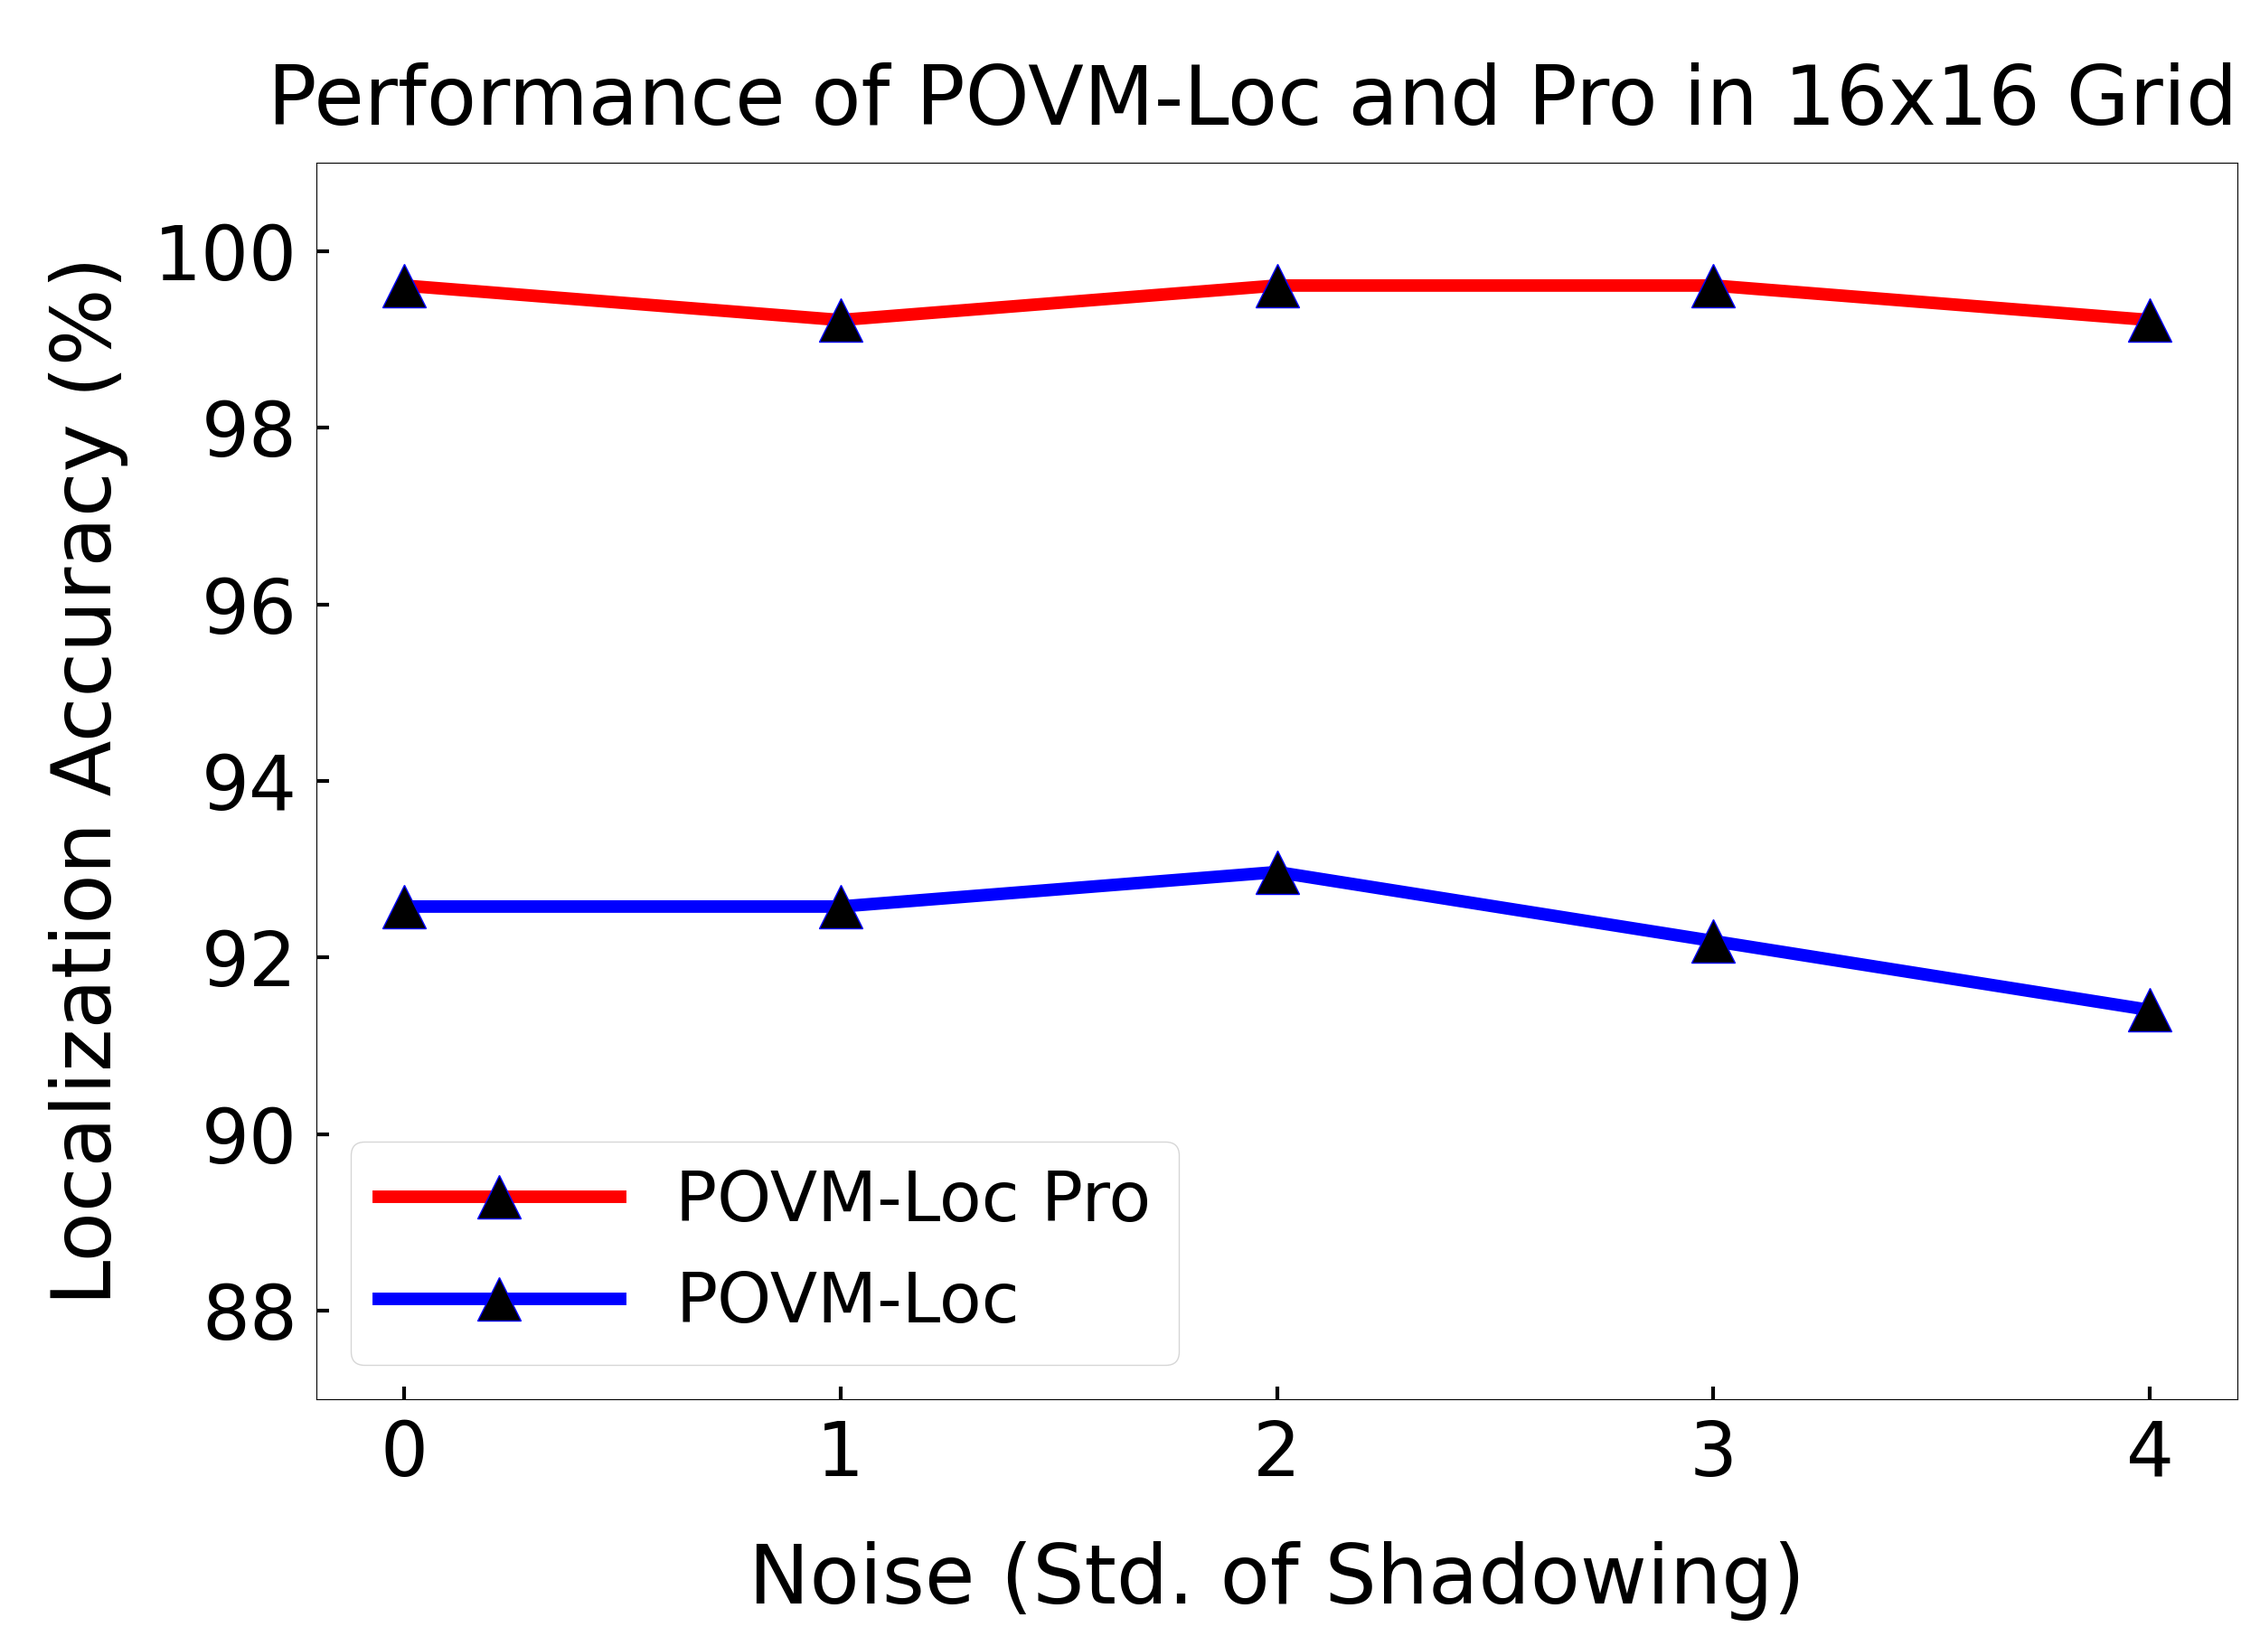
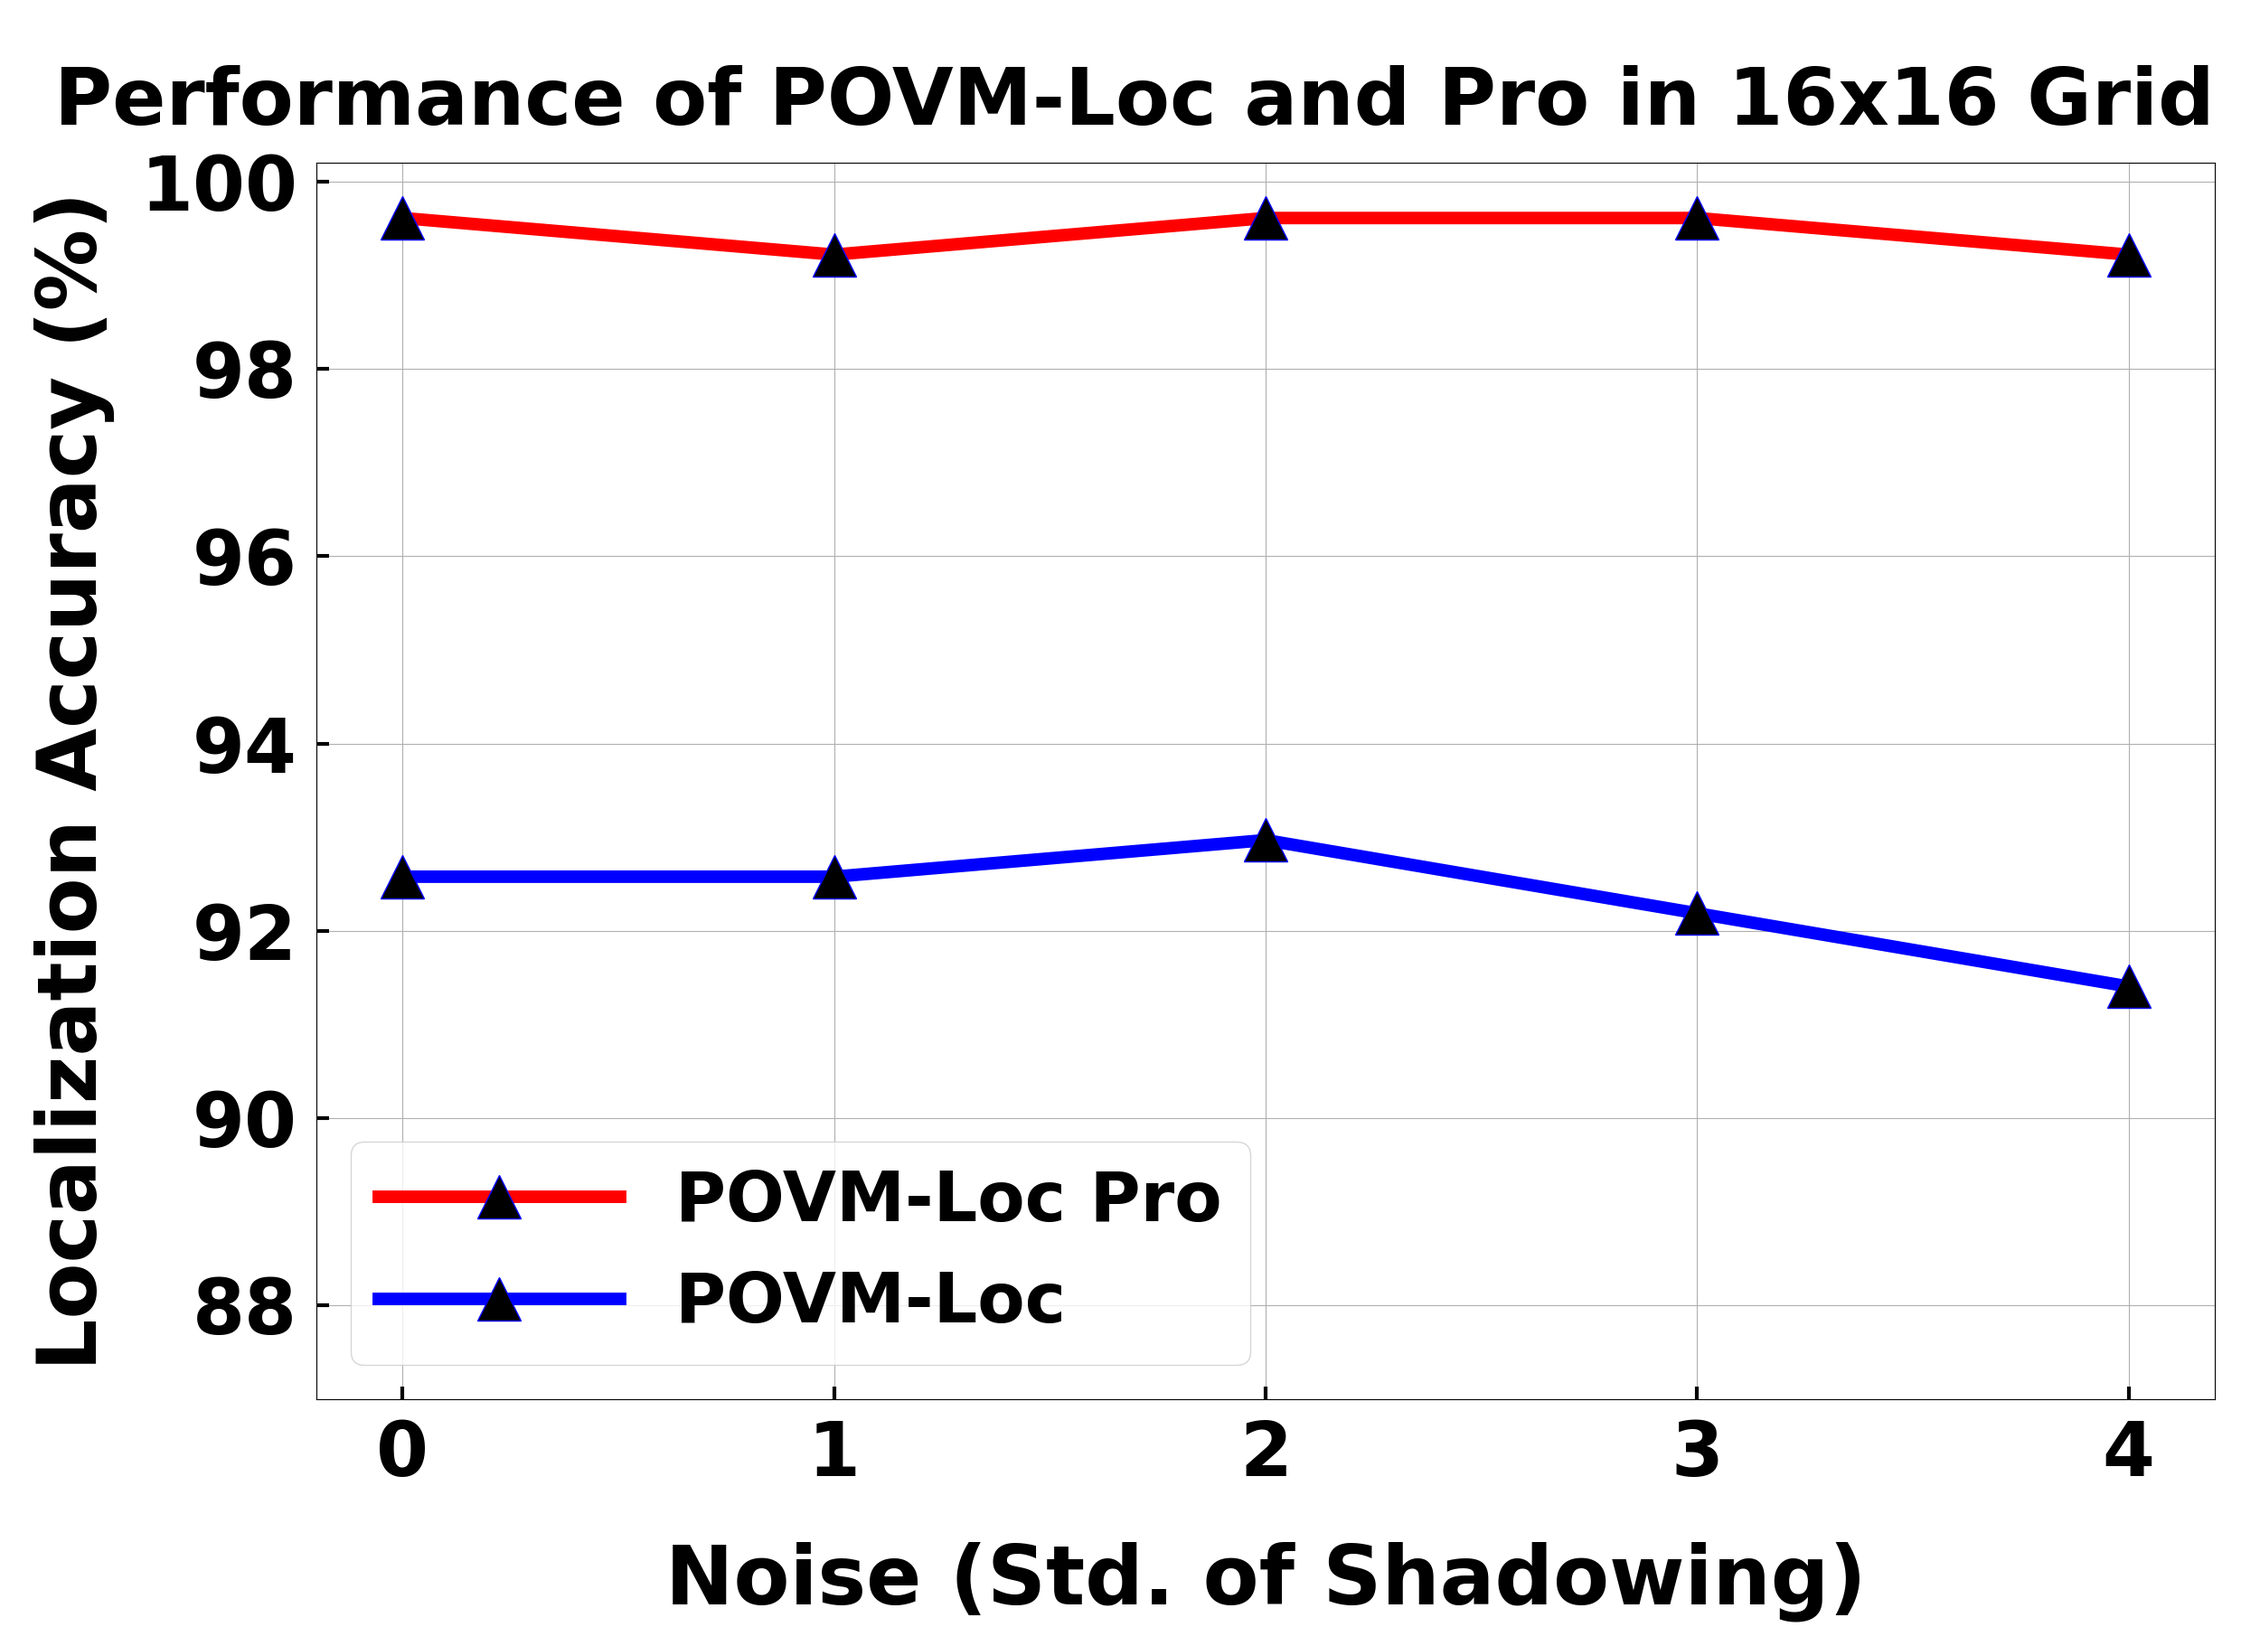
update plots

diff --git a/plot.py b/plot.py
@@ -1,4 +1,5 @@
 from collections import defaultdict
+from distutils.log import error
 import numpy as np
 import seaborn as sns
 import matplotlib.pyplot as plt
@@ -11,6 +12,8 @@ class Plot:
     plt.rcParams['font.size'] = 65
     plt.rcParams['lines.linewidth'] = 10
     plt.rcParams['lines.markersize'] = 35
+    plt.rcParams['font.weight'] = 'bold'
+    plt.rcParams['axes.labelweight'] = 'bold'
 
     METHOD  = ['povmloc-one',          'povmloc',  'povmloc-pro']
     _LEGEND = ['POVM-Loc (one level)', 'POVM-Loc', 'POVM-Loc Pro']
@@ -67,19 +70,20 @@ class Plot:
 
         # step 2: plotting
         fig, ax = plt.subplots(1, 1, figsize=(25, 18))
-        fig.subplots_adjust(left=0.14, right=0.99, top=0.9, bottom=0.14)
-        ax.plot(X, y_8sen, linestyle='-',  marker='^', label="8 Quantum Sensors", mfc='r', mec='b', color=Plot.COLOR['povmloc-one'])
-        ax.plot(X, y_4sen, linestyle='--', marker='^', label="4 Quantum Sensors", mfc='r', mec='b', color=Plot.COLOR['povmloc-one'])
+        fig.subplots_adjust(left=0.14, right=0.98, top=0.9, bottom=0.14)
+        ax.plot(X, y_8sen, linestyle='-',  marker='^', label="8 Quantum Sensors", mfc='black', mec='b', color=Plot.COLOR['povmloc-one'])
+        ax.plot(X, y_4sen, linestyle='--', marker='^', label="4 Quantum Sensors", mfc='black', mec='b', color=Plot.COLOR['povmloc-one'])
         fig.legend(ncol=1, loc='lower left', bbox_to_anchor=(0.14, 0.14), fontsize=52, handlelength=3.5)
         ax.set_xlabel('Grid Size', labelpad=40)
+        ax.grid(True)
         ax.set_xticks(X)
         ax.set_xticklabels([f'{int(x)}x{int(x)}' for x in X])
         ax.tick_params(axis='x', pad=15, direction='in', length=10, width=3, labelsize=52)
         ax.tick_params(axis='y', pad=15, direction='in', length=10, width=3)
         ax.set_ylabel('Localization Accuracy (%)', labelpad=20)
-        ax.set_ylim([0, 105])
+        ax.set_ylim([0, 102])
         method = Plot.LEGEND['povmloc-one']
-        ax.set_title(f'Performance of {method}', pad=30, fontsize=65)
+        ax.set_title(f'Performance of {method}', pad=30, fontsize=65, fontweight='bold')
         fig.savefig(figname)
 
 
@@ -104,20 +108,55 @@ class Plot:
 
         # step 2: plotting
         fig, ax = plt.subplots(1, 1, figsize=(25, 18))
-        fig.subplots_adjust(left=0.14, right=0.99, top=0.9, bottom=0.14)
+        fig.subplots_adjust(left=0.14, right=0.98, top=0.9, bottom=0.14)
         ax.plot(X, y_povmloc_pro, marker='^', label=Plot.LEGEND['povmloc-pro'], mfc='black', mec='b', color=Plot.COLOR['povmloc-pro'])
         ax.plot(X, y_povmloc,     marker='^', label=Plot.LEGEND['povmloc'],   mfc='black', mec='b', color=Plot.COLOR['povmloc'])
         fig.legend(ncol=1, loc='lower left', bbox_to_anchor=(0.14, 0.14), fontsize=55, handlelength=3.5)
         ax.set_xlabel('Noise (Std. of Shadowing)', labelpad=40)
+        ax.grid(True)
         ax.set_xticks(X)
         ax.tick_params(axis='x', pad=15, direction='in', length=10, width=3, labelsize=60)
         ax.tick_params(axis='y', pad=15, direction='in', length=10, width=3, labelsize=60)
         ax.set_ylabel('Localization Accuracy (%)', labelpad=20)
-        ax.set_ylim([87, 101])
+        ax.set_ylim([87, 100.2])
         method1 = Plot.LEGEND['povmloc']
-        ax.set_title(f'Performance of {method1} and Pro in 16x16 Grid', pad=30, fontsize=65, loc='right')
+        ax.set_title(f'Performance of {method1} and Pro in 16x16 Grid', pad=30, fontsize=63, loc='right', fontweight='bold')
         fig.savefig(figname)
 
+
+    @staticmethod
+    def error_cdf(data: list, figname: str):
+        table = defaultdict(list)
+        for myinput, output_by_method in data:
+            for method, output in output_by_method.items():
+                table[method].append(output.localization_error)
+                if output.localization_error > 50:
+                    print(myinput)
+        
+        n_bins = 200
+        method_n_bins = []
+        for method, error_list in table.items():
+            print(f'method={method}, avg. error = {np.average(error_list)}, error std. = {np.std(error_list)}')
+            n, bins, _ = plt.hist(error_list, n_bins, density=True, histtype='step', cumulative=True, label=method)
+            method_n_bins.append((method, n, bins))
+        method_n_bins[0], method_n_bins[1] = method_n_bins[1], method_n_bins[0]  # switch ...
+        plt.close()
+        fig, ax = plt.subplots(figsize=(25, 18))
+        fig.subplots_adjust(left=0.15, right=0.97, top=0.9, bottom=0.15)
+        for method, n, bins in method_n_bins:
+            ax.plot(bins[1:], n, label=Plot.LEGEND[method], color=Plot.COLOR[method])
+        
+        ax.grid(True)
+        ax.legend(loc='lower right')
+        ax.set_xlabel('Localization Error (m)', labelpad=40)
+        ax.set_ylabel('Cumulative Distribution (CDF)', labelpad=40)
+        ax.set_ylim([0, 1.003])
+        ax.set_xlim([0, 30])
+        ax.tick_params(axis='x', pad=15, direction='in', length=10, width=3, labelsize=60)
+        ax.tick_params(axis='y', pad=15, direction='in', length=10, width=3, labelsize=60)
+        ax.set_title('CDF of Localization Error in 16x16 Grid', pad=30, fontsize=63, fontweight='bold')
+        fig.savefig(figname)
+        
 
 
 def povmloc_one_varygridsize():
@@ -138,12 +177,23 @@ def povmloc_varynoise():
     Plot.povmloc_vary_noise(data, figname)
 
 
+def localization_error_cdf():
+    '''the classic error CDF plot
+    '''
+    logs = ['results/twolevel.errorcdf', 'results/onelevel.errorcdf']
+    data = Utility.read_logs(logs)
+    figname = 'results/error_cdf.png'
+    Plot.error_cdf(data, figname)
+
+
 
 if __name__ == '__main__':
 
     povmloc_one_varygridsize()
 
     povmloc_varynoise()
+
+    localization_error_cdf()
 
 
 '''
